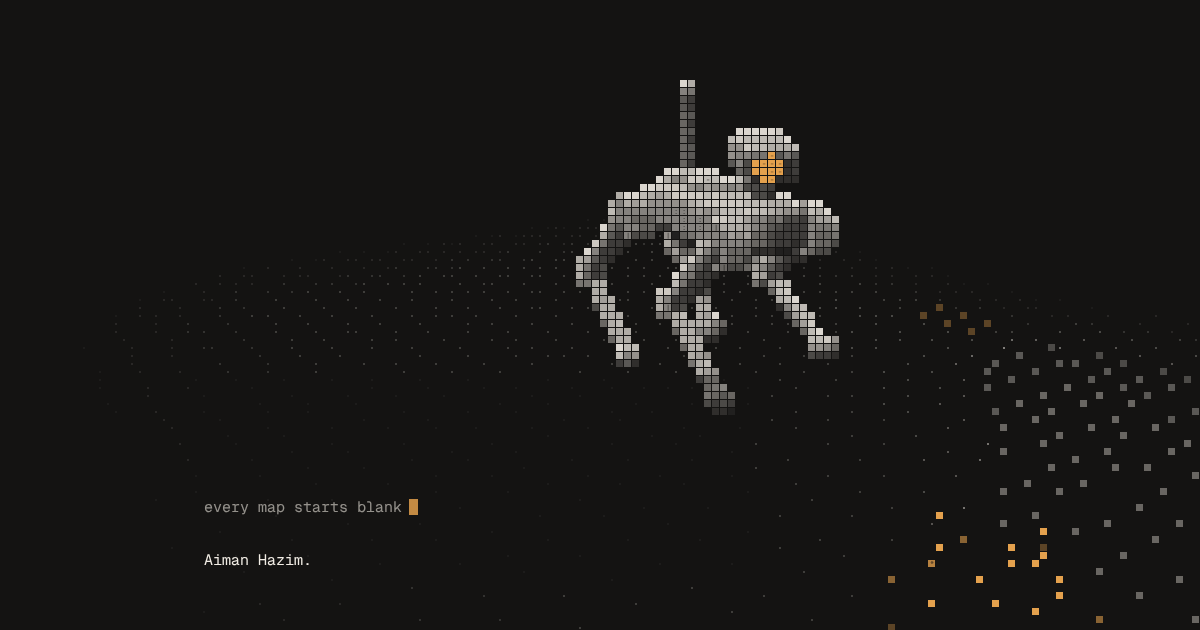
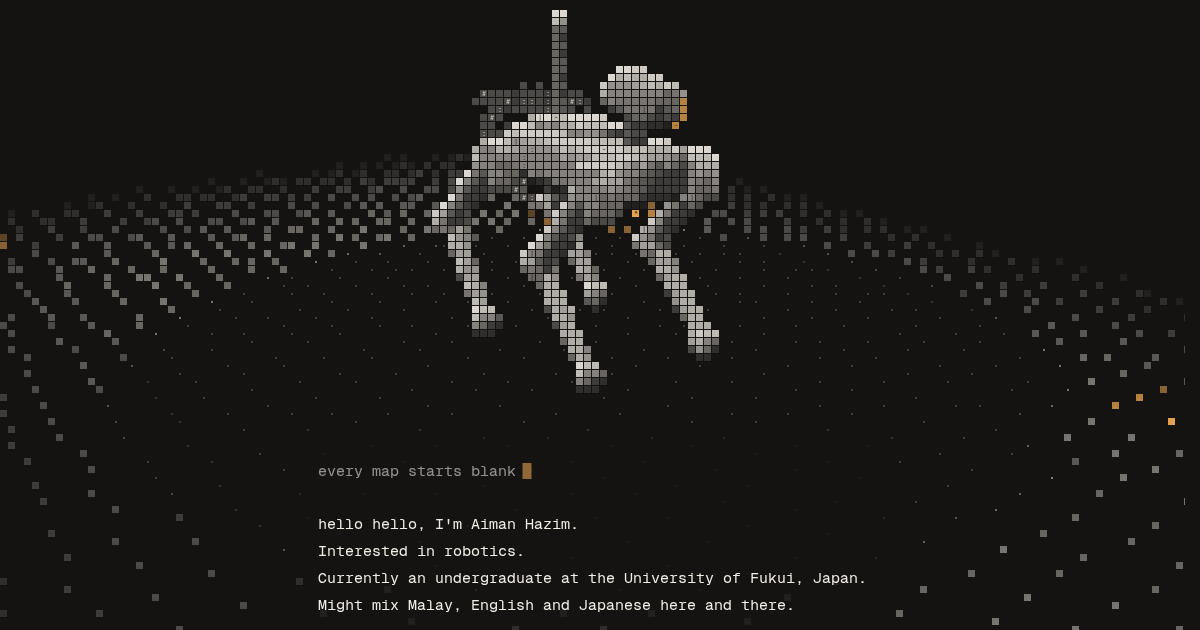
Spread the theme switch from the button, keep the bar still
- Switching theme grows the new colours out of the switch as a circle,
  where the browser can do it and motion is welcome.
- The scrollbar's room is kept on every page, so the centred bar no longer
  shifts between pages that scroll and pages that do not.
- A new share card: the robot above the current home text.

diff --git a/assets/js/site.js b/assets/js/site.js
@@ -30,6 +30,21 @@
     themeLabels();
     fire('ah:theme', next);
   }
+  // the new theme spreads out from the switch as a growing circle, where the browser can
+  // do that and motion is welcome; anywhere else it simply changes
+  function spread(btn, change) {
+    var calm = window.matchMedia && window.matchMedia('(prefers-reduced-motion: reduce)').matches;
+    if (!document.startViewTransition || calm) { change(); return; }
+    var r = btn.getBoundingClientRect(), x = r.left + r.width / 2, y = r.top + r.height / 2;
+    var far = Math.ceil(Math.hypot(Math.max(x, innerWidth - x), Math.max(y, innerHeight - y)));
+    html.classList.add('theme-spread');
+    var vt = document.startViewTransition(change);
+    vt.ready.then(function () {
+      html.animate({ clipPath: ['circle(0px at ' + x + 'px ' + y + 'px)', 'circle(' + far + 'px at ' + x + 'px ' + y + 'px)'] },
+        { duration: 560, easing: 'cubic-bezier(.3, 0, .2, 1)', pseudoElement: '::view-transition-new(root)' });
+    }).catch(function () {});
+    vt.finished.then(function () { html.classList.remove('theme-spread'); }, function () { html.classList.remove('theme-spread'); });
+  }
   document.addEventListener('click', function (e) {
     var b = e.target.closest && e.target.closest('[data-theme-toggle]');
     if (!b) return;
@@ -38,7 +53,7 @@
       if (next === systemTheme()) localStorage.removeItem('ah-theme');
       else localStorage.setItem('ah-theme', next);
     } catch (err) {}
-    setTheme(next);
+    spread(b, function () { setTheme(next); });
   });
   // the system switches (at sunset, say) while the page is open: follow it, unless a choice is saved
   function onSystem() {

diff --git a/assets/css/style.css b/assets/css/style.css
@@ -32,7 +32,9 @@ body:has(.page.wide), body:has(.article-band) { --col: 1080px; }
 }
 
 *, *::before, *::after { box-sizing: border-box; }
-html { -webkit-text-size-adjust: 100%; text-size-adjust: 100%; background: var(--bg); }
+/* the scrollbar's room is kept on every page, scrolling or not, so the page is the same
+   width everywhere and the centred bar does not shift between pages */
+html { -webkit-text-size-adjust: 100%; text-size-adjust: 100%; background: var(--bg); scrollbar-gutter: stable; }
 body {
   margin: 0; min-height: 100vh; min-height: 100dvh;
   background: var(--bg); color: var(--fg);
@@ -68,6 +70,9 @@ a:hover { text-decoration-color: currentColor; }
 .theme-btn .moon { display: none; }
 [data-theme="light"] .theme-btn .sun { display: none; }
 [data-theme="light"] .theme-btn .moon { display: block; }
+/* switching theme: the old look stays put and the new one grows over it from the
+   switch (site.js draws the circle). only for this, never between pages */
+html.theme-spread::view-transition-old(root), html.theme-spread::view-transition-new(root) { animation: none; mix-blend-mode: normal; }
 .pill { display: none; }
 
 /* ---- mobile menu ---- */

diff --git a/README.md b/README.md
@@ -27,7 +27,7 @@ Other words (nav, home, about) are written straight into each page's HTML.
 - `assets/css/style.css`: colours are CSS variables at the top. One accent (amber).
 - `assets/js/robot.js`: the walking robot on the home and 404 pages. A four-legged walker with a sensor head on a mast and an antenna, drawn as points on a grid of cells. It roams freely: it walks under the text (fading there so the words stay readable) and now and then off the edge of the screen, and its patch of floor goes with it. Move the pointer over the floor and it comes after it at once; click or tap and it sends a ping and walks there. The camera stays put by default; put `data-camera="follow"` on the canvas (or add `?cam=follow` to the URL to try it) and the view follows the robot instead, keeping it right of the text while the floor slides along. It pauses when the tab is hidden and shows a still frame for reduced motion.
 - `assets/js/thermal.js`: the simulator scenes on the PyroScout write-up.
-- `assets/js/site.js`: theme, menu, and the lists built from `assets/data/`. The theme follows the system light or dark setting (iOS, Android, macOS, Windows), also when it changes while the page is open. The sun/moon toggle saves a choice that wins over it; toggling back to the system's own theme clears the choice. The small script at the top of each page's head does the first pick, before anything is drawn.
+- `assets/js/site.js`: theme, menu, and the lists built from `assets/data/`. The theme follows the system light or dark setting (iOS, Android, macOS, Windows), also when it changes while the page is open. The sun/moon toggle saves a choice that wins over it; toggling back to the system's own theme clears the choice. The small script at the top of each page's head does the first pick, before anything is drawn. Switching theme spreads the new colours out from the switch as a growing circle (a same-page view transition; browsers without it, or with reduced motion on, just switch).
 
 ## A new page
 
